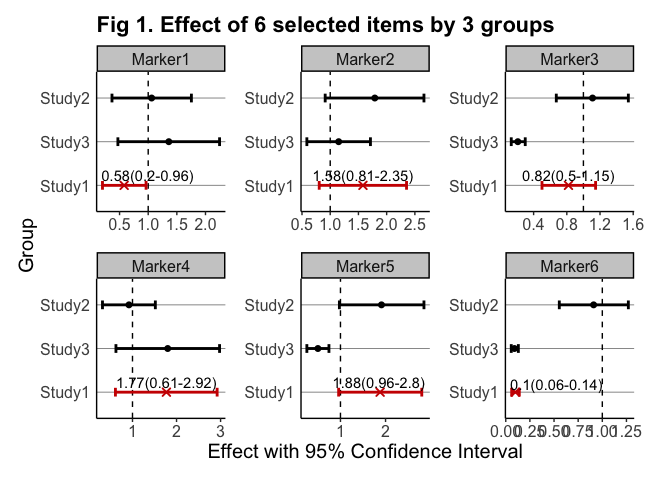
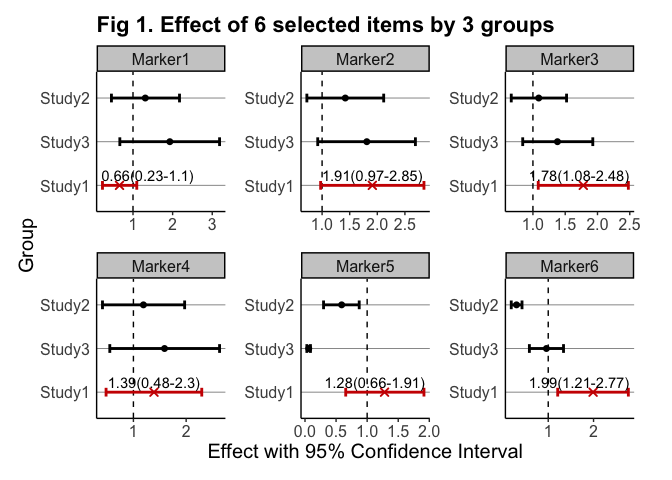
Updating README

diff --git a/docs/index.html b/docs/index.html
@@ -102,7 +102,24 @@
 <span class="va">tempStdErr</span> <span class="op">=</span> <span class="va">tempValue</span> <span class="op">/</span> <span class="fu"><a href="https://rdrr.io/r/base/rep.html">rep</a></span><span class="op">(</span><span class="fl">3</span><span class="op">:</span><span class="fl">5</span>, times <span class="op">=</span> <span class="fl">6</span><span class="op">)</span>
 <span class="va">eg_customFilename</span> <span class="op">=</span> <span class="fu"><a href="https://rdrr.io/r/base/data.frame.html">data.frame</a></span><span class="op">(</span><span class="fu"><a href="https://rdrr.io/r/base/paste.html">paste0</a></span><span class="op">(</span><span class="st">"Marker"</span>, <span class="fl">1</span><span class="op">:</span><span class="fl">6</span><span class="op">)</span>, <span class="va">tempValue</span><span class="op">[</span><span class="fl">1</span><span class="op">:</span><span class="fl">6</span><span class="op">]</span>, <span class="va">tempStdErr</span><span class="op">[</span><span class="fl">1</span><span class="op">:</span><span class="fl">6</span><span class="op">]</span>, <span class="va">tempValue</span><span class="op">[</span><span class="fl">7</span><span class="op">:</span><span class="fl">12</span><span class="op">]</span>, <span class="va">tempStdErr</span><span class="op">[</span><span class="fl">7</span><span class="op">:</span><span class="fl">12</span><span class="op">]</span>, <span class="va">tempValue</span><span class="op">[</span><span class="fl">13</span><span class="op">:</span><span class="fl">18</span><span class="op">]</span>, <span class="va">tempStdErr</span><span class="op">[</span><span class="fl">13</span><span class="op">:</span><span class="fl">18</span><span class="op">]</span>, stringsAsFactors <span class="op">=</span> <span class="cn">FALSE</span><span class="op">)</span>
 <span class="fu"><a href="https://rdrr.io/r/base/colnames.html">colnames</a></span><span class="op">(</span><span class="va">eg_customFilename</span><span class="op">)</span> <span class="op">=</span> <span class="fu"><a href="https://rdrr.io/r/base/c.html">c</a></span><span class="op">(</span><span class="st">"MarkerName"</span>, <span class="fu"><a href="https://rdrr.io/r/base/paste.html">paste0</a></span><span class="op">(</span><span class="fu"><a href="https://rdrr.io/r/base/rep.html">rep</a></span><span class="op">(</span><span class="st">"Study"</span>, times <span class="op">=</span> <span class="fl">6</span><span class="op">)</span>, <span class="fu"><a href="https://rdrr.io/r/base/rep.html">rep</a></span><span class="op">(</span><span class="fl">1</span><span class="op">:</span><span class="fl">3</span>, each <span class="op">=</span> <span class="fl">2</span><span class="op">)</span>, <span class="fu"><a href="https://rdrr.io/r/base/rep.html">rep</a></span><span class="op">(</span><span class="fu"><a href="https://rdrr.io/r/base/c.html">c</a></span><span class="op">(</span><span class="st">"__Value"</span>, <span class="st">"__StdErr"</span><span class="op">)</span>, times <span class="op">=</span> <span class="fl">3</span><span class="op">)</span><span class="op">)</span><span class="op">)</span>
-<span class="fu"><a href="https://rdrr.io/r/base/rm.html">rm</a></span><span class="op">(</span><span class="va">tempValue</span>, <span class="va">tempStdErr</span><span class="op">)</span></code></pre></div>
+<span class="fu"><a href="https://rdrr.io/r/base/rm.html">rm</a></span><span class="op">(</span><span class="va">tempValue</span>, <span class="va">tempStdErr</span><span class="op">)</span>
+
+<span class="co"># take a quick look at the example: main input data (with standardized column names)</span>
+<span class="fu"><a href="https://rdrr.io/r/base/print.html">print</a></span><span class="op">(</span><span class="va">eg_customFilename</span><span class="op">)</span>
+<span class="co">#&gt;   MarkerName Study1__Value Study1__StdErr Study2__Value Study2__StdErr</span>
+<span class="co">#&gt; 1    Marker1     0.5822793     0.19409309     1.0609299      0.3536433</span>
+<span class="co">#&gt; 2    Marker2     1.5787272     0.39468180     1.7859139      0.4464785</span>
+<span class="co">#&gt; 3    Marker3     0.8238641     0.16477281     1.1073557      0.2214711</span>
+<span class="co">#&gt; 4    Marker4     1.7672046     0.58906821     0.9186633      0.3062211</span>
+<span class="co">#&gt; 5    Marker5     1.8815299     0.47038247     1.9140984      0.4785246</span>
+<span class="co">#&gt; 6    Marker6     0.1006574     0.02013149     0.9121350      0.1824270</span>
+<span class="co">#&gt;   Study3__Value Study3__StdErr</span>
+<span class="co">#&gt; 1    1.35836556     0.45278852</span>
+<span class="co">#&gt; 2    1.14954047     0.28738512</span>
+<span class="co">#&gt; 3    0.21482012     0.04296402</span>
+<span class="co">#&gt; 4    1.80065169     0.60021723</span>
+<span class="co">#&gt; 5    0.49971459     0.12492865</span>
+<span class="co">#&gt; 6    0.09369847     0.01873969</span></code></pre></div>
 <div class="sourceCode"><pre class="downlit sourceCode r">
 <code class="sourceCode R"><span class="co"># run gwasforest function</span>
 <span class="va">eg_returnList</span> <span class="op">=</span> <span class="fu"><a href="reference/gwasforest.html">gwasforest</a></span><span class="op">(</span><span class="va">eg_customFilename</span>, stdColnames <span class="op">=</span> <span class="cn">TRUE</span>, valueFormat <span class="op">=</span> <span class="st">"Effect"</span>, metaStudy <span class="op">=</span> <span class="st">"Study1"</span>, colorMode <span class="op">=</span> <span class="st">"duo"</span><span class="op">)</span>
@@ -126,10 +143,34 @@
 <code class="sourceCode R"><span class="co"># generate example data</span>
 <span class="va">tempValue</span> <span class="op">=</span> <span class="fu"><a href="https://rdrr.io/r/stats/Uniform.html">runif</a></span><span class="op">(</span>n <span class="op">=</span> <span class="fl">18</span>, min <span class="op">=</span> <span class="fl">0.01</span>, max <span class="op">=</span> <span class="fl">2</span><span class="op">)</span>
 <span class="va">tempStdErr</span> <span class="op">=</span> <span class="va">tempValue</span> <span class="op">/</span> <span class="fu"><a href="https://rdrr.io/r/base/rep.html">rep</a></span><span class="op">(</span><span class="fl">3</span><span class="op">:</span><span class="fl">5</span>, times <span class="op">=</span> <span class="fl">6</span><span class="op">)</span>
-<span class="va">eg_customFilename</span> <span class="op">=</span> <span class="fu"><a href="https://rdrr.io/r/base/data.frame.html">data.frame</a></span><span class="op">(</span><span class="fu"><a href="https://rdrr.io/r/base/paste.html">paste0</a></span><span class="op">(</span><span class="st">"Marker"</span>, <span class="fl">1</span><span class="op">:</span><span class="fl">6</span><span class="op">)</span>, <span class="va">tempValue</span><span class="op">[</span><span class="fl">1</span><span class="op">:</span><span class="fl">6</span><span class="op">]</span>, <span class="va">tempStdErr</span><span class="op">[</span><span class="fl">1</span><span class="op">:</span><span class="fl">6</span><span class="op">]</span>, <span class="va">tempValue</span><span class="op">[</span><span class="fl">7</span><span class="op">:</span><span class="fl">12</span><span class="op">]</span>, <span class="va">tempStdErr</span><span class="op">[</span><span class="fl">7</span><span class="op">:</span><span class="fl">12</span><span class="op">]</span>, <span class="va">tempValue</span><span class="op">[</span><span class="fl">13</span><span class="op">:</span><span class="fl">18</span><span class="op">]</span>, <span class="va">tempStdErr</span><span class="op">[</span><span class="fl">13</span><span class="op">:</span><span class="fl">18</span><span class="op">]</span>, stringsAsFactors <span class="op">=</span> <span class="cn">FALSE</span><span class="op">)</span>
-<span class="fu"><a href="https://rdrr.io/r/base/colnames.html">colnames</a></span><span class="op">(</span><span class="va">eg_customFilename</span><span class="op">)</span> <span class="op">=</span> <span class="fu"><a href="https://rdrr.io/r/base/c.html">c</a></span><span class="op">(</span><span class="st">"MarkerName"</span>, <span class="fu"><a href="https://rdrr.io/r/base/paste.html">paste0</a></span><span class="op">(</span><span class="fu"><a href="https://rdrr.io/r/base/rep.html">rep</a></span><span class="op">(</span><span class="st">"Study"</span>, times <span class="op">=</span> <span class="fl">6</span><span class="op">)</span>, <span class="fu"><a href="https://rdrr.io/r/base/rep.html">rep</a></span><span class="op">(</span><span class="fl">1</span><span class="op">:</span><span class="fl">3</span>, each <span class="op">=</span> <span class="fl">2</span><span class="op">)</span>, <span class="fu"><a href="https://rdrr.io/r/base/sample.html">sample</a></span><span class="op">(</span><span class="va">LETTERS</span>, <span class="fl">6</span><span class="op">)</span><span class="op">)</span><span class="op">)</span>
+<span class="va">eg_customFilename2</span> <span class="op">=</span> <span class="fu"><a href="https://rdrr.io/r/base/data.frame.html">data.frame</a></span><span class="op">(</span><span class="fu"><a href="https://rdrr.io/r/base/paste.html">paste0</a></span><span class="op">(</span><span class="st">"Marker"</span>, <span class="fl">1</span><span class="op">:</span><span class="fl">6</span><span class="op">)</span>, <span class="va">tempValue</span><span class="op">[</span><span class="fl">1</span><span class="op">:</span><span class="fl">6</span><span class="op">]</span>, <span class="va">tempStdErr</span><span class="op">[</span><span class="fl">1</span><span class="op">:</span><span class="fl">6</span><span class="op">]</span>, <span class="va">tempValue</span><span class="op">[</span><span class="fl">7</span><span class="op">:</span><span class="fl">12</span><span class="op">]</span>, <span class="va">tempStdErr</span><span class="op">[</span><span class="fl">7</span><span class="op">:</span><span class="fl">12</span><span class="op">]</span>, <span class="va">tempValue</span><span class="op">[</span><span class="fl">13</span><span class="op">:</span><span class="fl">18</span><span class="op">]</span>, <span class="va">tempStdErr</span><span class="op">[</span><span class="fl">13</span><span class="op">:</span><span class="fl">18</span><span class="op">]</span>, stringsAsFactors <span class="op">=</span> <span class="cn">FALSE</span><span class="op">)</span>
+<span class="fu"><a href="https://rdrr.io/r/base/colnames.html">colnames</a></span><span class="op">(</span><span class="va">eg_customFilename2</span><span class="op">)</span> <span class="op">=</span> <span class="fu"><a href="https://rdrr.io/r/base/c.html">c</a></span><span class="op">(</span><span class="st">"MarkerName"</span>, <span class="fu"><a href="https://rdrr.io/r/base/paste.html">paste0</a></span><span class="op">(</span><span class="fu"><a href="https://rdrr.io/r/base/rep.html">rep</a></span><span class="op">(</span><span class="st">"Study"</span>, times <span class="op">=</span> <span class="fl">6</span><span class="op">)</span>, <span class="fu"><a href="https://rdrr.io/r/base/rep.html">rep</a></span><span class="op">(</span><span class="fl">1</span><span class="op">:</span><span class="fl">3</span>, each <span class="op">=</span> <span class="fl">2</span><span class="op">)</span>, <span class="fu"><a href="https://rdrr.io/r/base/sample.html">sample</a></span><span class="op">(</span><span class="va">LETTERS</span>, <span class="fl">6</span><span class="op">)</span><span class="op">)</span><span class="op">)</span>
 <span class="fu"><a href="https://rdrr.io/r/base/rm.html">rm</a></span><span class="op">(</span><span class="va">tempValue</span>, <span class="va">tempStdErr</span><span class="op">)</span>
-<span class="va">eg_customFilename_studyName</span> <span class="op">=</span> <span class="fu"><a href="https://rdrr.io/r/base/data.frame.html">data.frame</a></span><span class="op">(</span><span class="st">"studyName"</span> <span class="op">=</span> <span class="fu"><a href="https://rdrr.io/r/base/paste.html">paste0</a></span><span class="op">(</span><span class="st">"Study"</span>, <span class="fl">1</span><span class="op">:</span><span class="fl">3</span><span class="op">)</span>, stringsAsFactors <span class="op">=</span> <span class="cn">FALSE</span><span class="op">)</span></code></pre></div>
+<span class="va">eg_customFilename_studyName</span> <span class="op">=</span> <span class="fu"><a href="https://rdrr.io/r/base/data.frame.html">data.frame</a></span><span class="op">(</span><span class="st">"studyName"</span> <span class="op">=</span> <span class="fu"><a href="https://rdrr.io/r/base/paste.html">paste0</a></span><span class="op">(</span><span class="st">"Study"</span>, <span class="fl">1</span><span class="op">:</span><span class="fl">3</span><span class="op">)</span>, stringsAsFactors <span class="op">=</span> <span class="cn">FALSE</span><span class="op">)</span>
+
+<span class="co"># take a quick look at the example: main input data (without standardized column names)</span>
+<span class="fu"><a href="https://rdrr.io/r/base/print.html">print</a></span><span class="op">(</span><span class="va">eg_customFilename2</span><span class="op">)</span>
+<span class="co">#&gt;   MarkerName   Study1K   Study1G   Study2U    Study2L    Study3O</span>
+<span class="co">#&gt; 1    Marker1 0.6625622 0.2208541 1.3148545 0.43828485 1.92641822</span>
+<span class="co">#&gt; 2    Marker2 1.9094623 0.4773656 1.4199756 0.35499391 1.80557510</span>
+<span class="co">#&gt; 3    Marker3 1.7801832 0.3560366 1.0926914 0.21853828 1.38450350</span>
+<span class="co">#&gt; 4    Marker4 1.3886788 0.4628929 1.1923426 0.39744754 1.59298016</span>
+<span class="co">#&gt; 5    Marker5 1.2846086 0.3211521 0.5854279 0.14635697 0.05898123</span>
+<span class="co">#&gt; 6    Marker6 1.9885969 0.3977194 0.3027562 0.06055123 0.96081398</span>
+<span class="co">#&gt;      Study3J</span>
+<span class="co">#&gt; 1 0.64213941</span>
+<span class="co">#&gt; 2 0.45139377</span>
+<span class="co">#&gt; 3 0.27690070</span>
+<span class="co">#&gt; 4 0.53099339</span>
+<span class="co">#&gt; 5 0.01474531</span>
+<span class="co">#&gt; 6 0.19216280</span>
+
+<span class="co"># take a quick look at the example: custom study name</span>
+<span class="fu"><a href="https://rdrr.io/r/base/print.html">print</a></span><span class="op">(</span><span class="va">eg_customFilename_studyName</span><span class="op">)</span>
+<span class="co">#&gt;   studyName</span>
+<span class="co">#&gt; 1    Study1</span>
+<span class="co">#&gt; 2    Study2</span>
+<span class="co">#&gt; 3    Study3</span></code></pre></div>
 <div class="sourceCode"><pre class="downlit sourceCode r">
 <code class="sourceCode R"><span class="co"># run gwasforest function</span>
 <span class="va">eg_returnList</span> <span class="op">=</span> <span class="fu"><a href="reference/gwasforest.html">gwasforest</a></span><span class="op">(</span><span class="va">eg_customFilename</span>, customFilename_studyName <span class="op">=</span> <span class="va">eg_customFilename_studyName</span>, stdColnames <span class="op">=</span> <span class="cn">FALSE</span>, customColnames <span class="op">=</span> <span class="fu"><a href="https://rdrr.io/r/base/c.html">c</a></span><span class="op">(</span><span class="st">"Value"</span>, <span class="st">"StdErr"</span><span class="op">)</span>, valueFormat <span class="op">=</span> <span class="st">"Effect"</span>, metaStudy <span class="op">=</span> <span class="st">"Study1"</span>, colorMode <span class="op">=</span> <span class="st">"duo"</span><span class="op">)</span></code></pre></div>
@@ -139,7 +180,29 @@
 </ul>
 <div class="sourceCode"><pre class="downlit sourceCode r">
 <code class="sourceCode R"><span class="co"># extract results table</span>
-<span class="va">eg_customFilename_results</span> <span class="op">=</span> <span class="va">eg_returnList</span><span class="op">[[</span><span class="fl">1</span><span class="op">]</span><span class="op">]</span></code></pre></div>
+<span class="va">eg_customFilename_results</span> <span class="op">=</span> <span class="va">eg_returnList</span><span class="op">[[</span><span class="fl">1</span><span class="op">]</span><span class="op">]</span>
+
+<span class="co"># take a quick look at the example: results table</span>
+<span class="fu"><a href="https://rdrr.io/r/base/print.html">print</a></span><span class="op">(</span><span class="va">eg_customFilename_results</span><span class="op">)</span>
+<span class="co">#&gt;    MarkerName Value     Upper      Lower StudyName              CI</span>
+<span class="co">#&gt; 1     Marker1  0.58 0.9627017 0.20185681    Study1  0.58(0.2-0.96)</span>
+<span class="co">#&gt; 2     Marker2  1.58 2.3523036 0.80515088    Study1 1.58(0.81-2.35)</span>
+<span class="co">#&gt; 3     Marker3  0.82 1.1468188 0.50090936    Study1  0.82(0.5-1.15)</span>
+<span class="co">#&gt; 4     Marker4  1.77 2.9217783 0.61263094    Study1 1.77(0.61-2.92)</span>
+<span class="co">#&gt; 5     Marker5  1.88 2.8034795 0.95958025    Study1  1.88(0.96-2.8)</span>
+<span class="co">#&gt; 6     Marker6  0.10 0.1401151 0.06119972    Study1  0.1(0.06-0.14)</span>
+<span class="co">#&gt; 7     Marker1  1.06 1.7540708 0.36778904    Study2 1.06(0.37-1.75)</span>
+<span class="co">#&gt; 8     Marker2  1.79 2.6610117 0.91081609    Study2 1.79(0.91-2.66)</span>
+<span class="co">#&gt; 9     Marker3  1.11 1.5414391 0.67327225    Study2 1.11(0.67-1.54)</span>
+<span class="co">#&gt; 10    Marker4  0.92 1.5188567 0.31846995    Study2 0.92(0.32-1.52)</span>
+<span class="co">#&gt; 11    Marker5  1.91 2.8520066 0.97619016    Study2 1.91(0.98-2.85)</span>
+<span class="co">#&gt; 12    Marker6  0.91 1.2696919 0.55457806    Study2 0.91(0.55-1.27)</span>
+<span class="co">#&gt; 13    Marker1  1.36 2.2458311 0.47090006    Study3 1.36(0.47-2.25)</span>
+<span class="co">#&gt; 14    Marker2  1.15 1.7128153 0.58626564    Study3 1.15(0.59-1.71)</span>
+<span class="co">#&gt; 15    Marker3  0.21 0.2990296 0.13061063    Study3  0.21(0.13-0.3)</span>
+<span class="co">#&gt; 16    Marker4  1.80 2.9770775 0.62422592    Study3  1.8(0.62-2.98)</span>
+<span class="co">#&gt; 17    Marker5  0.50 0.7445747 0.25485444    Study3  0.5(0.25-0.74)</span>
+<span class="co">#&gt; 18    Marker6  0.09 0.1304283 0.05696867    Study3 0.09(0.06-0.13)</span></code></pre></div>
 <div class="sourceCode"><pre class="downlit sourceCode r">
 <code class="sourceCode R"><span class="kw"><a href="https://rdrr.io/r/base/library.html">library</a></span><span class="op">(</span><span class="va"><a href="http://ggplot2.tidyverse.org">ggplot2</a></span><span class="op">)</span>
 

diff --git a/README.md b/README.md
@@ -111,7 +111,15 @@ print(eg_customFilename_studyName)
 
 ``` r
 # run gwasforest function
-eg_returnList = gwasforest(eg_customFilename, customFilename_studyName = eg_customFilename_studyName, stdColnames = FALSE, customColnames = c("Value", "StdErr"), valueFormat = "Effect", metaStudy = "Study1", colorMode = "duo")
+eg_returnList = gwasforest(eg_customFilename2, customFilename_studyName = eg_customFilename_studyName, stdColnames = FALSE, customColnames = c("Value", "StdErr"), valueFormat = "Effect", metaStudy = "Study1", colorMode = "duo")
+#> [1] "Column names are grouped by study and in the order of |Value, StdErr|"
+#> [1] "Start reforming"
+#> [1] "Loading user-provided values"
+#> [1] "Start calculating Confidence Interval (non-exponential)"
+#> [1] "Based on user's choice, GWAS results output file will not be generated"
+#> [1] "As per user's request, all studies except meta study will be set in the original order from top to bottom on the forest plot"
+#> [1] "Based on user's choice, GWAS forest plot file will not be generated"
+#> [1] "Run completed, thank you for using gwasforest"
 ```
 
 -   **( 3 )** when **customFilename\_results** is in dataframe format (run either of the two steps above to see the example results):
@@ -122,25 +130,25 @@ eg_customFilename_results = eg_returnList[[1]]
 
 # take a quick look at the example: results table
 print(eg_customFilename_results)
-#>    MarkerName Value     Upper      Lower StudyName              CI
-#> 1     Marker1  0.58 0.9627017 0.20185681    Study1  0.58(0.2-0.96)
-#> 2     Marker2  1.58 2.3523036 0.80515088    Study1 1.58(0.81-2.35)
-#> 3     Marker3  0.82 1.1468188 0.50090936    Study1  0.82(0.5-1.15)
-#> 4     Marker4  1.77 2.9217783 0.61263094    Study1 1.77(0.61-2.92)
-#> 5     Marker5  1.88 2.8034795 0.95958025    Study1  1.88(0.96-2.8)
-#> 6     Marker6  0.10 0.1401151 0.06119972    Study1  0.1(0.06-0.14)
-#> 7     Marker1  1.06 1.7540708 0.36778904    Study2 1.06(0.37-1.75)
-#> 8     Marker2  1.79 2.6610117 0.91081609    Study2 1.79(0.91-2.66)
-#> 9     Marker3  1.11 1.5414391 0.67327225    Study2 1.11(0.67-1.54)
-#> 10    Marker4  0.92 1.5188567 0.31846995    Study2 0.92(0.32-1.52)
-#> 11    Marker5  1.91 2.8520066 0.97619016    Study2 1.91(0.98-2.85)
-#> 12    Marker6  0.91 1.2696919 0.55457806    Study2 0.91(0.55-1.27)
-#> 13    Marker1  1.36 2.2458311 0.47090006    Study3 1.36(0.47-2.25)
-#> 14    Marker2  1.15 1.7128153 0.58626564    Study3 1.15(0.59-1.71)
-#> 15    Marker3  0.21 0.2990296 0.13061063    Study3  0.21(0.13-0.3)
-#> 16    Marker4  1.80 2.9770775 0.62422592    Study3  1.8(0.62-2.98)
-#> 17    Marker5  0.50 0.7445747 0.25485444    Study3  0.5(0.25-0.74)
-#> 18    Marker6  0.09 0.1304283 0.05696867    Study3 0.09(0.06-0.13)
+#>    MarkerName Value      Upper      Lower StudyName              CI
+#> 1     Marker1  0.66 1.09543622 0.22968824    Study1  0.66(0.23-1.1)
+#> 2     Marker2  1.91 2.84509877 0.97382575    Study1 1.91(0.97-2.85)
+#> 3     Marker3  1.78 2.47801507 1.08235141    Study1 1.78(1.08-2.48)
+#> 4     Marker4  1.39 2.29594891 0.48140864    Study1  1.39(0.48-2.3)
+#> 5     Marker5  1.28 1.91406675 0.65515037    Study1 1.28(0.66-1.91)
+#> 6     Marker6  1.99 2.76812682 1.20906689    Study1 1.99(1.21-2.77)
+#> 7     Marker1  1.31 2.17389284 0.45581624    Study2 1.31(0.46-2.17)
+#> 8     Marker2  1.42 2.11576369 0.72418757    Study2 1.42(0.72-2.12)
+#> 9     Marker3  1.09 1.52102641 0.66435636    Study2 1.09(0.66-1.52)
+#> 10    Marker4  1.19 1.97133980 0.41334544    Study2 1.19(0.41-1.97)
+#> 11    Marker5  0.59 0.87228754 0.29856822    Study2  0.59(0.3-0.87)
+#> 12    Marker6  0.30 0.42143657 0.18407574    Study2  0.3(0.18-0.42)
+#> 13    Marker1  1.93 3.18501146 0.66782498    Study3 1.93(0.67-3.19)
+#> 14    Marker2  1.81 2.69030690 0.92084330    Study3 1.81(0.92-2.69)
+#> 15    Marker3  1.38 1.92722888 0.84177813    Study3 1.38(0.84-1.93)
+#> 16    Marker4  1.59 2.63372720 0.55223312    Study3 1.59(0.55-2.63)
+#> 17    Marker5  0.06 0.08788204 0.03008043    Study3 0.06(0.03-0.09)
+#> 18    Marker6  0.96 1.33745306 0.58417490    Study3 0.96(0.58-1.34)
 ```
 
 ``` r
